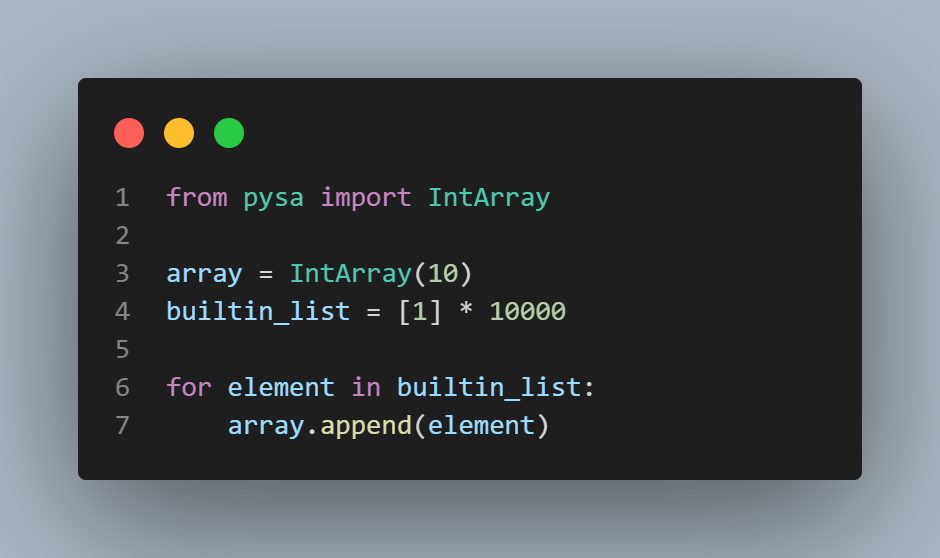
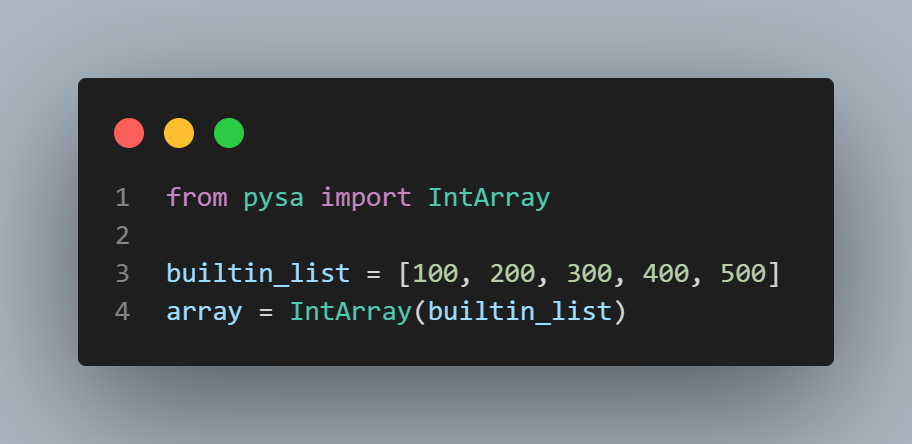
feat(Root): Add iterable atribute to array classes

diff --git a/pysa/char.py b/pysa/char.py
@@ -3,8 +3,8 @@ from pysa.utils import binary_to_string
 
 class CharArray(IntArray):
 
-    def __init__(self, items_size = 8, auto_resize = False):
-        super().__init__(items_size, auto_resize)
+    def __init__(self, string = None, items_size = 8, auto_resize = False):
+        super().__init__(string, items_size, auto_resize)
 
     def append(self, element):
         str_element = str(element)
@@ -16,8 +16,8 @@ class CharArray(IntArray):
 
 class String(CharArray):
     
-    def __init__(self, items_size = 8, auto_resize = False):
-        super().__init__(items_size, auto_resize)
+    def __init__(self, string = None, items_size = 8, auto_resize = False):
+        super().__init__(string, items_size, auto_resize)
 
     def __str__(self):
         return self.to_string()

diff --git a/pysa/int.py b/pysa/int.py
@@ -1,11 +1,14 @@
 class IntArray():
 
-    def __init__(self, items_size = 1, auto_resize = True):
+    def __init__(self, iterable = None, items_size = 1, auto_resize = True):
         self.array = 0
         self.empty = True
         self.items_size = items_size
         self.items = 0
         self.auto_resize = auto_resize
+
+        for element in iterable:
+            self.append(element)
 
     def __getitem__(self, index):
         return self.list[index]

diff --git a/example03.py b/example03.py
@@ -1,11 +1,8 @@
 import sys
 from pysa import String
 
-string = String()
 builtin_string = "Supercalifragilisticexpialidocious"
-
-for char in builtin_string:
-    string.append(char)
+string = String(builtin_string)
 
 print(f"""
 String: '{string}'

diff --git a/example01.py b/example01.py
@@ -2,11 +2,8 @@ import sys
 
 from pysa import IntArray
 
-array = IntArray()
 builtin_list = [100, 200, 300, 400, 500]
-
-for element in builtin_list:
-    array.append(element)
+array = IntArray(builtin_list)
 
 print(f"""
 IntArray: {array}

diff --git a/example02.py b/example02.py
@@ -1,11 +1,8 @@
 import sys
 from pysa import CharArray
 
-array = CharArray(10)
 builtin_string = "Pizza"
-
-for char in builtin_string:
-    array.append(char)
+array = CharArray(builtin_string)
 
 print(f"""
 CharArray: {array}
